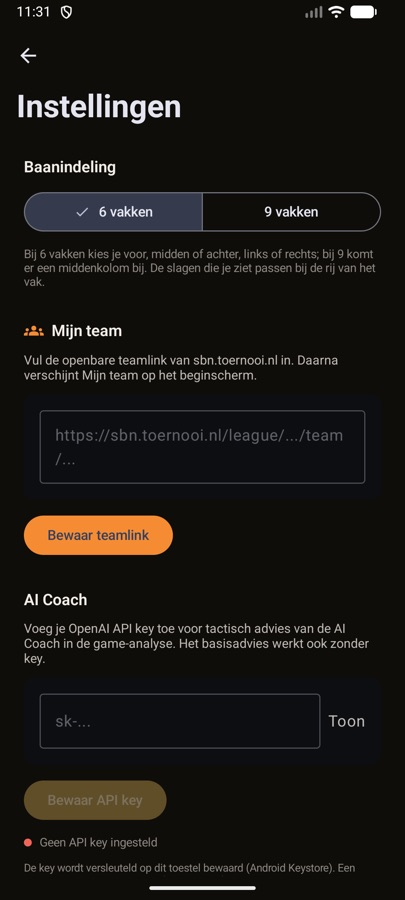
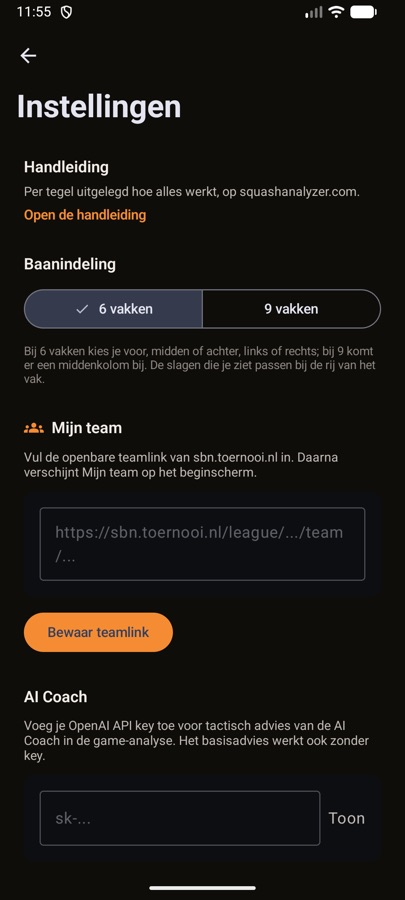
feat: Instellingen links to the manual for the platform it runs on
iOS opens handleiding/iphone.html, Android handleiding/android.html
(UserManual in Core). Also: the unselected '9 vakken' segment on iOS was dark
on dark and is readable now; manual screenshots of Instellingen refreshed.

diff --git a/SquashAnalyzer/Views/SettingsView.swift b/SquashAnalyzer/Views/SettingsView.swift
@@ -27,6 +27,8 @@ struct SettingsView: View {
 
                 ScrollView {
                     VStack(spacing: 24) {
+                        manualSection
+
                         courtSection
 
                         teamSection
@@ -99,6 +101,29 @@ struct SettingsView: View {
         .padding(.vertical, 16)
     }
 
+    // MARK: - Manual Section
+    /// The iPhone manual on the website (Android links to its own page)
+    private var manualSection: some View {
+        Link(destination: UserManual.iPhone) {
+            HStack(spacing: 12) {
+                Image(systemName: "book").foregroundColor(AppColors.warmOrange)
+                VStack(alignment: .leading, spacing: 2) {
+                    Text("Handleiding").font(AppFonts.label(16)).foregroundColor(AppColors.textPrimary)
+                    Text("Per tegel uitgelegd hoe alles werkt, op squashanalyzer.com")
+                        .font(AppFonts.caption(11))
+                        .foregroundColor(AppColors.textMuted)
+                        .multilineTextAlignment(.leading)
+                }
+                Spacer()
+                Image(systemName: "arrow.up.right").foregroundColor(AppColors.textMuted)
+            }
+            .padding()
+            .background(RoundedRectangle(cornerRadius: 12).fill(Color.white.opacity(0.03)))
+            .overlay(RoundedRectangle(cornerRadius: 12).stroke(Color.white.opacity(0.08), lineWidth: 1))
+        }
+        .accessibilityLabel("Open de handleiding")
+    }
+
     // MARK: - Court Section
     private var courtSection: some View {
         VStack(alignment: .leading, spacing: 12) {
@@ -111,6 +136,8 @@ struct SettingsView: View {
                 Text("9 vakken").tag(CourtLayout.nine.rawValue)
             }
             .pickerStyle(.segmented)
+            // Dark segments so the unselected "9 vakken" stays readable on the dark card
+            .environment(\.colorScheme, .dark)
             Text("Bij 6 vakken kies je voor, midden of achter, links of rechts; bij 9 komt er een middenkolom bij. De slagen die je ziet passen bij de rij van het vak: voorin Drop, Boast en Kill, in het midden Kill, Drive, Cross en Boast, achterin Drive, Cross en Lob.")
                 .font(AppFonts.caption(11))
                 .foregroundColor(AppColors.textMuted)

diff --git a/Packages/SquashAnalyzerUI/Sources/SquashAnalyzerUI/SharedLeagueTeamViews.swift b/Packages/SquashAnalyzerUI/Sources/SquashAnalyzerUI/SharedLeagueTeamViews.swift
@@ -294,6 +294,8 @@ public struct SharedSettingsView: View {
             LeaguePalette.background.ignoresSafeArea()
             ScrollView {
                 VStack(alignment: .leading, spacing: 12) {
+                    manualSection
+                        .padding(.bottom, 20)
                     courtSection
                         .padding(.bottom, 20)
                     HStack(spacing: 8) {
@@ -345,6 +347,24 @@ public struct SharedSettingsView: View {
         .onAppear {
             draft = teamURL
             hasKey = aiCoach?.keyStore.hasOpenAIKey == true
+        }
+    }
+
+    /// The Android manual on the website (iOS links to the iPhone page)
+    private var manualSection: some View {
+        VStack(alignment: .leading, spacing: 8) {
+            Text("Handleiding")
+                .font(.system(size: 16, weight: .semibold))
+                .foregroundColor(LeaguePalette.text)
+            Text("Per tegel uitgelegd hoe alles werkt, op squashanalyzer.com.")
+                .font(.system(size: 13))
+                .foregroundColor(LeaguePalette.secondary)
+            Link(destination: UserManual.android) {
+                Text("Open de handleiding")
+                    .font(.system(size: 14, weight: .semibold))
+                    .foregroundColor(LeaguePalette.orange)
+            }
+            .accessibilityLabel("Open de handleiding")
         }
     }
 

diff --git a/website/handleiding/android.html b/website/handleiding/android.html
@@ -187,6 +187,7 @@
         <h2><span class="icon">⚙</span>Instellingen</h2>
         <p class="where">Tandwiel rechtsboven op het beginscherm</p>
         <ul>
+          <li><strong>Handleiding</strong>: opent deze pagina.</li>
           <li><strong>Baanindeling</strong>: kies <span class="ui">6 vakken</span> (standaard) of <span class="ui">9 vakken</span> met een middenkolom.</li>
           <li><strong>Mijn team</strong>: plak je teamlink van sbn.toernooi.nl en tik op <span class="ui">Bewaar teamlink</span>; <span class="ui">Verwijder</span> haalt hem weg.</li>
           <li><strong>AI Coach</strong>: vul je eigen OpenAI API-sleutel in en tik op <span class="ui">Bewaar API key</span>. De sleutel wordt versleuteld op je toestel bewaard. Een analyse kost ongeveer € 0,01. Met <span class="ui">Verwijder key</span> haal je hem weg.</li>

diff --git a/website/handleiding/iphone.html b/website/handleiding/iphone.html
@@ -218,6 +218,7 @@
         <h2><span class="icon">⚙</span>Instellingen</h2>
         <p class="where">Tandwiel rechtsboven op het beginscherm of in het coachscherm</p>
         <ul>
+          <li><strong>Handleiding</strong>: opent deze pagina.</li>
           <li><strong>Baanindeling</strong>: kies <span class="ui">6 vakken</span> (standaard) of <span class="ui">9 vakken</span> met een middenkolom.</li>
           <li><strong>Mijn team</strong>: plak je teamlink van sbn.toernooi.nl en tik op <span class="ui">Bewaar teamlink</span>.</li>
           <li><strong>Back-up</strong>: <span class="ui">Wekelijkse back-up naar iCloud</span> staat standaard aan. Eén keer per week, als je de app na gebruik wegzet, komt er een back-up in iCloud Drive; de 7 nieuwste blijven bewaard.</li>

diff --git a/Packages/SquashAnalyzerCore/Sources/SquashAnalyzerCore/UserManual.swift b/Packages/SquashAnalyzerCore/Sources/SquashAnalyzerCore/UserManual.swift
@@ -1,0 +1,8 @@
+import Foundation
+
+/// The user manual on the website, one page per platform (website/handleiding).
+/// Instellingen links to the page for the platform it runs on.
+public enum UserManual {
+    public static let iPhone = URL(string: "https://www.squashanalyzer.com/handleiding/iphone.html")!
+    public static let android = URL(string: "https://www.squashanalyzer.com/handleiding/android.html")!
+}

diff --git a/Packages/SquashAnalyzerCore/Tests/SquashAnalyzerCoreTests/UserManualTests.swift b/Packages/SquashAnalyzerCore/Tests/SquashAnalyzerCoreTests/UserManualTests.swift
@@ -1,0 +1,9 @@
+import XCTest
+@testable import SquashAnalyzerCore
+
+final class UserManualTests: XCTestCase {
+    func testEachPlatformHasItsOwnManualPage() {
+        XCTAssertEqual(UserManual.iPhone.absoluteString, "https://www.squashanalyzer.com/handleiding/iphone.html")
+        XCTAssertEqual(UserManual.android.absoluteString, "https://www.squashanalyzer.com/handleiding/android.html")
+    }
+}
